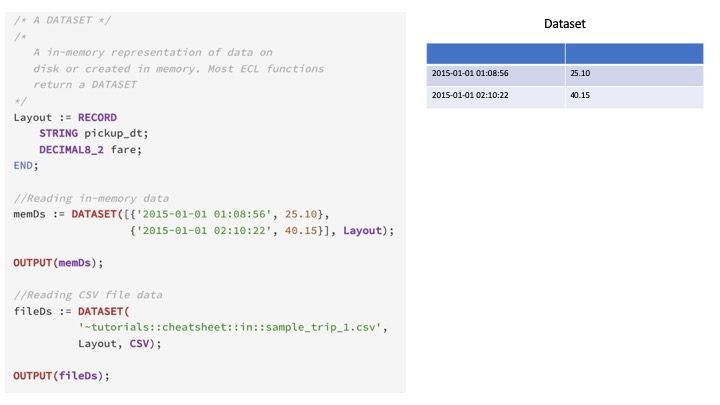
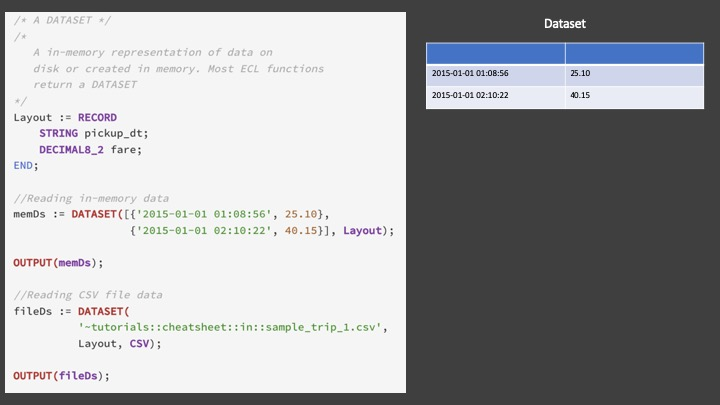
Formatting and color

diff --git a/CheatSheet/Readme.md b/CheatSheet/Readme.md
@@ -1,1 +1,2 @@
 ![](img/CheatSheet/Slide1.jpeg)
+![](img/CheatSheet/Slide2.jpeg)
